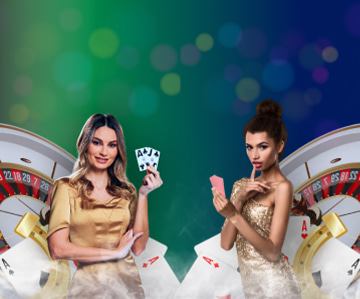
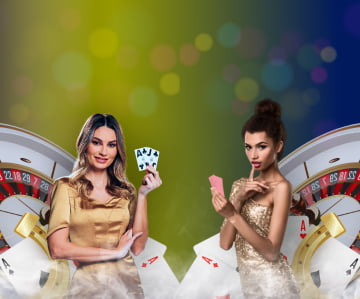
13/10/2022 15:12

diff --git a/components/Form/Form.js b/components/Form/Form.js
@@ -12,15 +12,15 @@ const Form = () => {
 	const [promocode, setPromocode] = useState('');
 	const [emailDirty, setEmailDirty] = useState(false);
 	const [passwordDirty, setPasswordDirty] = useState(false);
-	const [emailError, setEmailError] = useState('Por favor, insira um email válido.');
-	const [passwordError, setPasswordError] = useState('Mínimo de 6 símbolos. Deve conter apenas caracteres e dígitos latinos!');
+	const [emailError, setEmailError] = useState('Please, enter correct email.');
+	const [passwordError, setPasswordError] = useState('Minimum 6 symbols. Must contain only Latin characters and digits!');
 	const [formValid, setFormValid] = useState(false);
 	const [loading, setLoading] = useState(false);
 	const [errorMessage, setErrorMessage] = useState('');
 	const [errorStatus, setErrorStatus] = useState(false);
 
-	const country = 'BR';
-	const currency = 'BRL';
+	const country = 'IN';
+	const currency = 'INR';
 	const secret = 'YH1ETLdNAr29v5TWbHBrjhw5QlU97dIl';
 	const projectId = '8';
 	const signature = md5(`${secret}${projectId}${email}`);
@@ -31,7 +31,7 @@ const Form = () => {
 		setEmail(e.target.value);
 		const re = /^(([^<>()[\]\\.,;:\s@\"]+(\.[^<>()[\]\\.,;:\s@\"]+)*)|(\".+\"))@((\[[0-9]{1,3}\.[0-9]{1,3}\.[0-9]{1,3}\.[0-9]{1,3}\])|(([a-zA-Z\-0-9]+\.)+[a-zA-Z]{2,}))$/;
 		if (!re.test(String(e.target.value).toLowerCase())) {
-			setEmailError('Por favor, insira um email válido.')
+			setEmailError('Please, enter correct email.')
 		} else {
 			setEmailError('')
 		}
@@ -41,9 +41,7 @@ const Form = () => {
 		setPassword(e.target.value);
 		const re = /^(?=.*[a-z])(?=.*\d)\S{8,}$/;
 		if (!re.test(String(e.target.value).toLowerCase())) {
-			setPasswordError('A senha deve conter apenas letras latinas e dígitos.')
-		} else if (e.target.value.length < 8) {
-			setPasswordError('Mínimo de 6 símbolos. Deve conter apenas caracteres e dígitos latinos!')
+			setPasswordError('Minimum 6 symbols. Must contain only Latin characters and digits!')
 		} else {
 			setPasswordError('')
 		}
@@ -67,8 +65,8 @@ const Form = () => {
 		setPromocode('');
 		setEmailDirty(false);
 		setPasswordDirty(false);
-		setEmailError('Por favor, insira um email válido.');
-		setPasswordError('Mínimo de 6 símbolos. Deve conter apenas caracteres e dígitos latinos!');
+		setEmailError('Please, enter correct email.');
+		setPasswordError('Minimum 6 symbols. Must contain only Latin characters and digits!');
 	}
 
 	const handleSubmit = () => {
@@ -127,14 +125,15 @@ const Form = () => {
 						handleSubmit();
 					}}>
 
-						<label className={styles.label}>Preencha o formulário e receba seu bônus</label>
+						<label className={styles.label}>Fill out the form
+							and get your bonus</label>
 
 						<div className={styles.currency}>
 							<div className={styles.field}>
-								BRASIL
+								INDIA
 							</div>
 							<div className={styles.field}>
-								BRL
+								INR
 							</div>
 						</div>
 
@@ -151,7 +150,7 @@ const Form = () => {
 
 						<input className={cn(styles.field, styles.password, {
 							[styles.inputError]: passwordDirty && passwordError
-						})} name="password" type="password" placeholder='SENHA' value={password}
+						})} name="password" type="password" placeholder='PASSWORD' value={password}
 							onChange={e => passwordHandler(e)}
 							onBlur={e => blurHandler(e)} />
 						{(passwordDirty && passwordError) && (
@@ -161,11 +160,11 @@ const Form = () => {
 						)}
 
 						<div className={styles.bot}>
-							<input className={styles.field} type="text" placeholder='Código promocional'
+							<input className={styles.field} type="text" placeholder='PROMOCODE'
 								value={promocode}
 								onChange={e => setPromocode(e.target.value)} />
 							<div className={styles.submitWrapper}>
-								<input className={styles.submit} type="submit" value="REGISTRO" />
+								<input className={styles.submit} type="submit" value="REGISTER" />
 								{loading ? (
 									<svg className={styles.loading} xmlns="http://www.w3.org/2000/svg" xmlnsXlink="http://www.w3.org/1999/xlink" style={{ margin: 'auto', background: 'none', display: 'block', shapeRendering: 'auto' }} width="20px" height="20px" viewBox="0 0 100 100" preserveAspectRatio="xMidYMid">
 										<circle cx="50" cy="50" fill="none" stroke="#ffffff" strokeWidth="10" r="35" strokeDasharray="164.93361431346415 56.97787143782138">
@@ -176,8 +175,8 @@ const Form = () => {
 							</div>
 						</div>
 
-						<p className={styles.note}>EU CONCORDO COM OS TERMOS E CONDIÇÕES</p>
-						<p className={styles.note}>CONCORDO EM RECEBER MENSAGENS VIA E-MAIL OU TELEFONE</p>
+						<p className={styles.note}>I AGREE WITH THE TERMS AND CONDITIONS</p>
+						<p className={styles.note}>I AGREE TO RECEIVE MESSAGES VIA EMAIL OR PHONE</p>
 
 					</form>
 				</div >

diff --git a/components/Modal/Modal.js b/components/Modal/Modal.js
@@ -8,28 +8,28 @@ const Modal = ({ errorMessage, setErrorStatus }) => {
 	const checkError = (e) => {
 		switch (e) {
 			case 'С таким адресом электронной почты зарегистрировано несколько аккаунтов!':
-				return 'Este endereço de e-mail já está em uso!';
+				return 'This email address is already in use!';
 				break;
 			case 'Вы указали e-mail в неверном формате!':
-				return 'Por favor, digite o e-mail correto.';
+				return 'Please, enter correct email.';
 				break;
 			case 'Недопустимая валюта':
-				return 'Moeda inválida.';
+				return 'Invalid currency.';
 				break;
 			case 'Ошибка.':
-				return 'Erro. Tente se registrar mais tarde.';
+				return 'Error. Try to register later.';
 				break;
 			case 'Минимум 6 символов, обязан содержать цифры и латинский буквы.':
-				return 'Mínimo de 6 símbolos. Deve conter apenas caracteres e dígitos latinos!';
+				return 'Minimum 6 symbols. Must contain only Latin characters and digits!';
 				break;
-			default: 'Erro. Tente se registrar mais tarde.';
+			default: 'Error. Try to register later.';
 		}
 
 		if (e.includes('Извините, регистрация игроков из указанной страны')) {
-			return 'Desculpe, o registro do país especificado (Brasil) está suspenso.'
+			return 'Sorry, registration from specified country (India) is suspended.'
 		}
 
-		return 'Erro. Tente se registrar mais tarde.'
+		return 'Error. Try to register later.'
 	}
 
 	const ref = useRef();

diff --git a/components/Form/Form.module.css b/components/Form/Form.module.css
@@ -16,7 +16,7 @@
 .inner {
 	background:
 		radial-gradient(62.01% 62.01% at 49.97% 55.08%, #F5F5F5 0%, #606361 100%) padding-box,
-		linear-gradient(90deg, #0E627C 0%, #008746 100%) border-box;
+		linear-gradient(90deg, #265082 0%, #827826 100%) border-box;
 
 	border: 3px solid transparent;
 	box-shadow: 0px 20px 50px rgba(0, 0, 0, 0.1);
@@ -33,7 +33,7 @@
 	width: calc(100% - 20px);
 	background:
 		linear-gradient(90deg, #575757 0%, #575757 100%) padding-box,
-		linear-gradient(90deg, #008746 0%, #3E4042 100%) border-box;
+		linear-gradient(90deg, #827826 0%, #3E4042 100%) border-box;
 
 	border: 3px solid transparent;
 	border-radius: 40px;

diff --git a/components/Modal/Modal.module.css b/components/Modal/Modal.module.css
@@ -9,7 +9,7 @@
 
 .modal {
 	padding: 20px 40px;
-	background-color: #3557F8;
+	background-color: rgb(98, 98, 98);
 	color: white;
 	font-size: 18px;
 	position: absolute;
